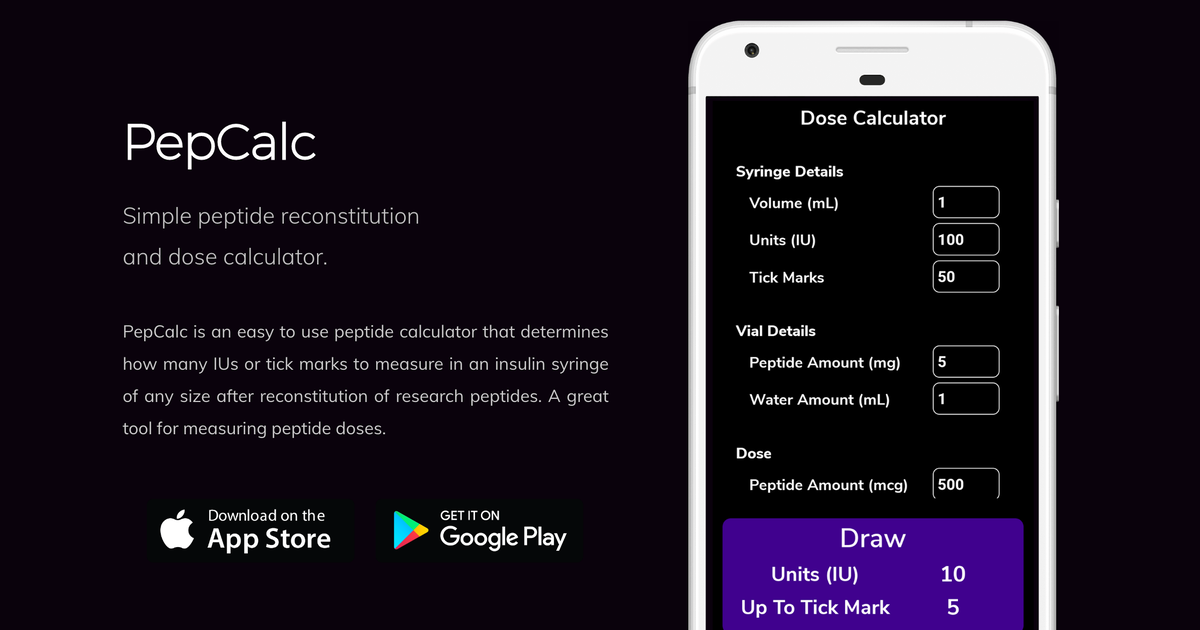
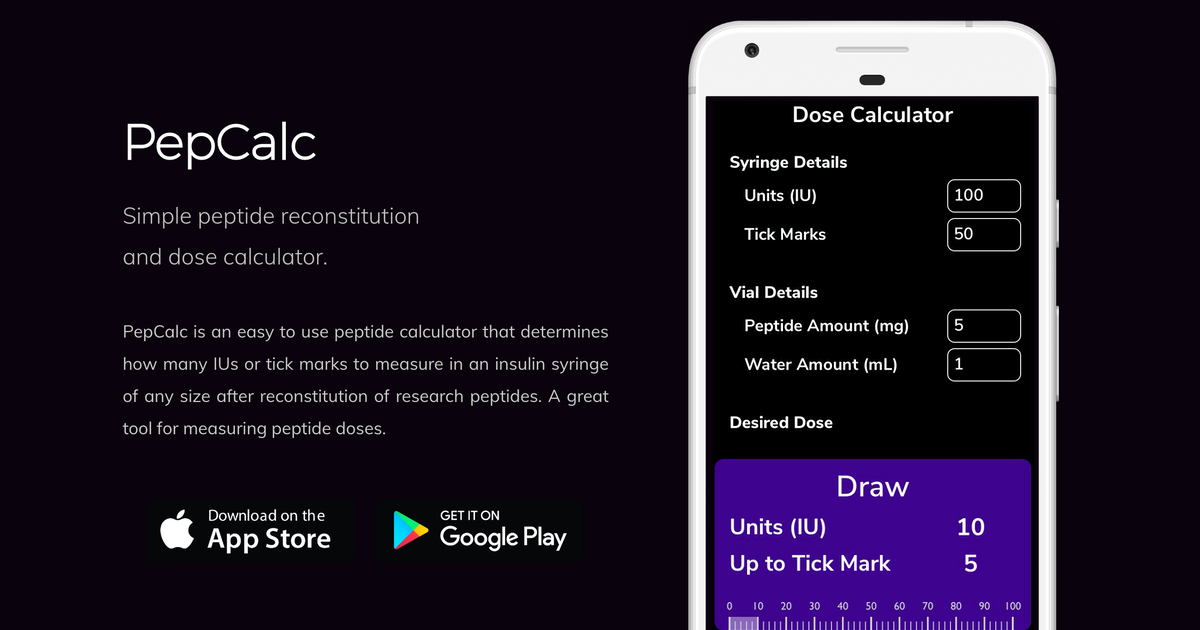
updated app store urls, updated pepcalc share image

diff --git a/index.html b/index.html
@@ -8,20 +8,26 @@
   <head>
     <!--- basic page needs
    ================================================== -->
-    <title>Simple Meal Tracking App | Free Food Diary - Awesome</title>
+    <title>
+      Meal Tracking and Intermittent Fasting App | Free Photo Food Diary -
+      Awesome Meal
+    </title>
     <meta charset="utf-8" />
     <meta
       name="description"
-      content="Awesome is the fastest way to start a food diary and gain insights into your eating habits. It's the only food journal app you'll ever need. Download for free on iOS and Android!"
+      content="Awesome Meal is the fastest way to start a food diary and gain insights into your eating habits and intermittent fasting. It's the only food journal app you'll ever need. Download for free on iOS and Android!"
     />
     <meta name="author" content="Awesome Labs, LLC" />
     <link rel="canonical" href="https://isjustawesome.com" />
 
     <!-- Open Graph -->
-    <meta property="og:title" content="Meal Tracking Made Simple" />
+    <meta
+      property="og:title"
+      content="Meal Tracking and Intermittent Fasting App"
+    />
     <meta
       property="og:description"
-      content="Awesome is the fastest way to start a food diary and gain insights into your eating habits. It's the only food journal app you'll ever need. Download for free on iOS and Android!"
+      content="Awesome Meal is the fastest way to start a food diary and gain insights into your eating habits and intermittent fasting. It's the only food journal app you'll ever need. Download for free on iOS and Android!"
     />
     <meta
       property="og:image"
@@ -149,17 +155,11 @@
       <div class="home-content">
         <div class="row contents">
           <div class="home-content-left">
-            <img
-              src="images/awesome-icon.png"
-              alt="Awesome App Icon"
-              title="Awesome App Icon"
-            />
-
             <h1 data-aos="fade-up">
-              meal tracking <br />
-              made simple.
+              Awesome Meal
             </h1>
             <p data-aos="fade-up" class="lead">
+              Meal tracking and intermittent fasting made simple.<br />
               The fastest, easiest way to start a food diary.
             </p>
           </div>
@@ -172,7 +172,7 @@
                 images/iphone-app-940.png 2x
               "
               alt="Awesome Meal Tracking App Screenshot"
-              title="Awesome App Screenshot"
+              title="Awesome Meal Tracking App Screenshot"
             />
           </div>
         </div>
@@ -191,7 +191,7 @@
           </h2>
 
           <p class="lead" data-aos="fade-up">
-            Awesome makes food tracking easy. Just snap photos of your
+            Awesome Meal makes food tracking easy. Just snap photos of your
             breakfast, lunch, dinner, snacks, and beverages &mdash; then view
             what you eat and drink on an interactive timeline.
           </p>
@@ -202,8 +202,8 @@
           <ul class="download-badges">
             <li>
               <a
-                href="https://itunes.apple.com/app/id1385723328"
-                title="Awesome - Fast Meal Tracking App on Apple App Store"
+                href="https://itunes.apple.com/app/id1526077962"
+                title="Awesome Meal - Fast Meal Tracking App on Apple App Store"
                 target="_blank"
                 class="badge-appstore"
                 data-aos="fade-up"
@@ -212,8 +212,8 @@
             </li>
             <li>
               <a
-                href="https://play.google.com/store/apps/details?id=awesomelabs.awesome.app"
-                title="Awesome - Fast Mail Tracking App on Google Play Store"
+                href="https://play.google.com/store/apps/details?id=awesomelabs.meal.app"
+                title="Awesome Meal - Fast Mail Tracking App on Google Play Store"
                 target="_blank"
                 class="badge-googleplay"
                 data-aos="fade-up"
@@ -235,10 +235,11 @@
         </div>
         <div class="col-eight">
           <p>
-            We originally built Awesome for ourselves to easily track meals and
-            hold ourselves accountable. Now we're sharing it with you. And it
-            works! Pull up the app, take a photo (or several photos) of your
-            meal and you are done.
+            We originally built Awesome Meal for ourselves to easily log our
+            meals, monitor our intermittent fasting windows, and hold ourselves
+            accountable. Now we're sharing it with you - and it works! Just open
+            up the app, take a photo (or several photos) of your meal and you
+            are done.
           </p>
           <ul>
             <li>
@@ -256,8 +257,35 @@
             <li>Close the app and get back to your life!</li>
           </ul>
           <p>
-            We hope Awesome helps you reach your meal tracking goals, and look
-            forward to being a part of your journey!
+            We came to the realization that the information already contained in
+            meal photos provides a ton of useful information, such as:
+          </p>
+          <ul>
+            <li>Meal times (automatically extracted from photos)</li>
+            <li>Portion sizes</li>
+            <li>
+              Variety of nutrients (food colors, vegetables, fruits, etc.)
+            </li>
+            <li>
+              Patterns and habits (always eating dinner late during the work
+              week? Always having an afternoon coffee?)
+            </li>
+          </ul>
+          <p>Other ways you can use Awesome Meal:</p>
+          <ul>
+            <li>
+              Intermittent fasting? No problem! See where your meals fall in
+              your eating window
+            </li>
+            <li>
+              Mindfully track your caffeine, water, or alcohol consumption
+            </li>
+            <li>Track your supplements in relation to meals and time of day</li>
+          </ul>
+          <p>
+            We hope Awesome Meal helps you reach your meal tracking and
+            intermittent fasting goals. We look forward to being a part of your
+            journey!
           </p>
         </div>
       </div>

diff --git a/pepcalc-peptide-calculator/index.html b/pepcalc-peptide-calculator/index.html
@@ -30,7 +30,7 @@
     />
     <meta
       property="og:image"
-      content="https://isjustawesome.com/pepcalc-peptide-calculator/images/social/pepcalc_facebook_newsfeed.png?v=1"
+      content="https://isjustawesome.com/pepcalc-peptide-calculator/images/social/pepcalc_facebook_newsfeed.png?v=2"
     />
     <meta
       property="og:url"
